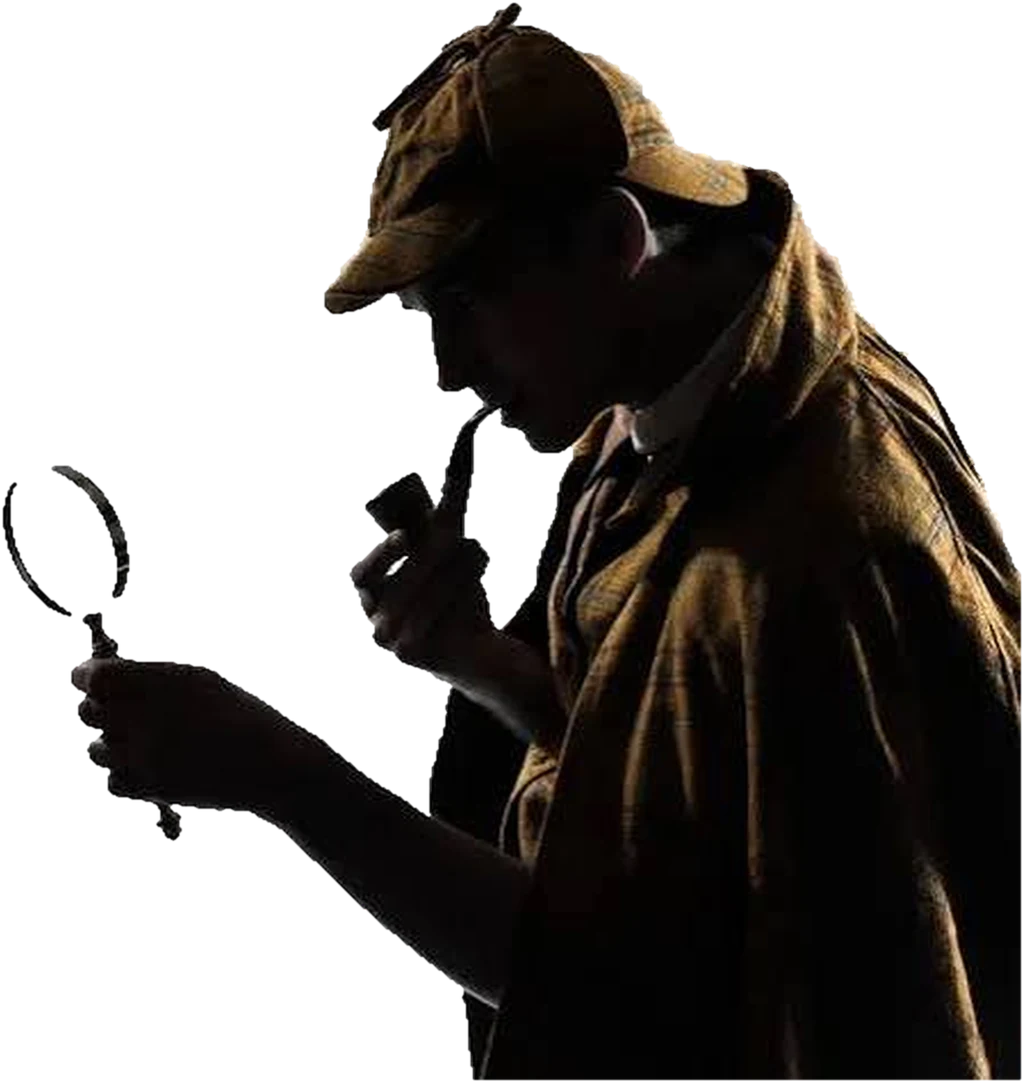
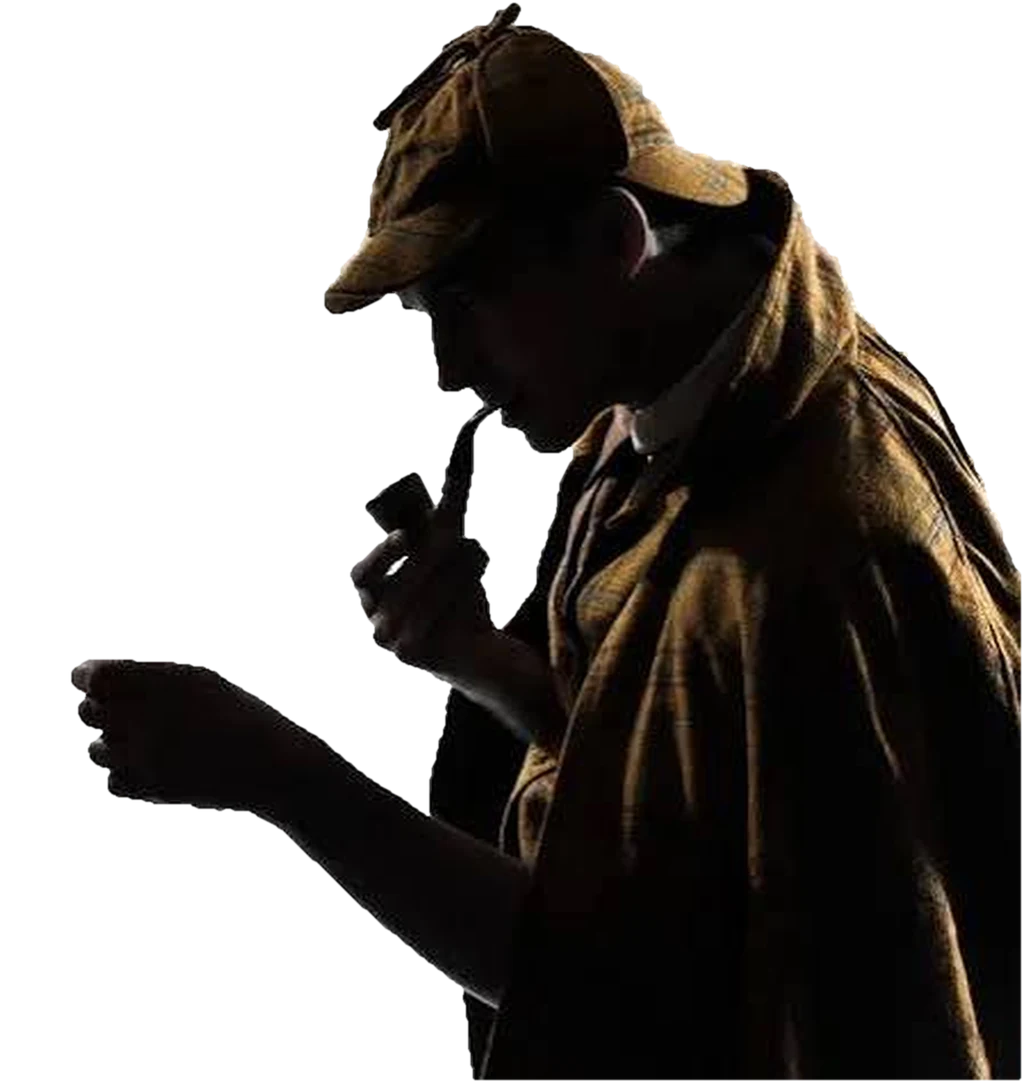
Hero: remove the magnifying glass from Sherlock's hand
Erased the lens ring and handle from the reference mask and rebuilt the traced outline,
colour texture, normal map and silhouette icon, so he simply smokes his pipe.

Claude-Session: https://claude.ai/code/session_01Bi74Xs9USDGtjcCzuCmEsb

Changed region(s): [[0.0, 0.4571, 0.125, 0.6094], [0.1562, 0.7313, 0.1875, 0.7922], [0.0312, 0.4266, 0.0938, 0.4571]]

diff --git a/components/three/sherlockPath.ts b/components/three/sherlockPath.ts
@@ -1,4 +1,4 @@
-// Traced from the reference silhouette (potrace, 1347×1425 px space). Used to extrude the 3D Sherlock.
+// Traced from the reference silhouette (potrace, 1347×1425 px space), magnifier removed. Used to extrude the 3D Sherlock.
 export const SHERLOCK_W = 1347
 export const SHERLOCK_H = 1425
-export const SHERLOCK_PATH = "M 669 7.5 C 664.8 11.1, 663.2 12, 660.1 12 C 655.7 12, 651 15.1, 651 17.9 C 651 18.9, 650.3 20.3, 649.5 21 C 648.6 21.6, 648 23.0, 648 24.0 C 648 24.9, 646.1 27.3, 643.9 29.3 C 640.2 32.8, 639.6 33, 633.0 33 C 626.7 33, 625.7 33.2, 622.6 36 C 620.7 37.6, 618.5 39, 617.7 39 C 616.9 39, 615.6 39.6, 615 40.5 C 614.3 41.3, 612.9 42, 612.0 42 C 611.1 42, 609.0 43.3, 607.5 45 C 605.9 46.6, 603.8 48, 602.9 48 C 602.0 48, 600.6 48.6, 600 49.5 C 599.3 50.3, 597.9 51, 597.0 51 C 596.1 51, 594.0 52.3, 592.5 54 C 590.9 55.6, 588.8 57, 588.0 57 C 585.1 57, 579.7 63.4, 580.5 66.0 C 581.1 67.9, 578.3 71.1, 559.8 89.6 C 548.1 101.3, 537.8 111, 536.9 111 C 535.0 111, 528 118.0, 528 120.0 C 528 122.0, 505.8 144, 503.9 144 C 501.9 144, 498 148.1, 498 150.1 C 498 150.9, 495.9 153.5, 493.5 156 C 487.7 161.6, 487.8 162.6, 494.4 168.8 C 500.6 174.7, 500.1 174.5, 504.1 172.4 C 506.4 171.2, 507.4 171.1, 508.5 172.0 C 510.4 173.6, 510.4 181.3, 508.5 183 C 507.4 183.8, 507 186.1, 507 190.5 C 507 194.8, 506.5 197.1, 505.5 198 C 504.6 198.6, 504 200.7, 504 202.5 C 504 204.2, 503.3 206.3, 502.5 207 C 501.6 207.6, 501 209.0, 501 210 C 501 210.9, 500.3 212.3, 499.5 213 C 498.6 213.6, 498 215.0, 498 216 C 498 216.9, 497.3 218.3, 496.5 219 C 495.4 219.8, 495 222.1, 495 226.5 C 495 230.8, 494.5 233.1, 493.5 234 C 492.6 234.6, 492 236.0, 492 237 C 492 237.9, 491.3 239.3, 490.5 240 C 489.4 240.8, 489 243.1, 489 247.5 C 489 251.8, 488.5 254.1, 487.5 255 C 486.2 256.0, 486 259.1, 486 271.5 C 486 283.8, 485.7 286.9, 484.5 288 C 483.4 288.8, 483 291.1, 483 295.5 C 483 299.8, 482.5 302.1, 481.5 303 C 480.6 303.6, 480 305.7, 480 307.5 C 480 309.2, 479.3 311.3, 478.5 312 C 477.6 312.6, 477 314.0, 477 314.9 C 477 315.8, 475.8 317.7, 474.4 319.0 C 472.5 320.7, 472.0 322.0, 472.4 323.9 C 472.9 326.1, 471.3 328.1, 460.0 339.4 C 447.1 352.3, 447 352.5, 447 357.0 C 447 360.7, 446.4 362.1, 444.3 364.0 C 442.9 365.4, 441.3 367.5, 440.9 368.7 C 440.4 370.0, 439.2 371.3, 438.2 371.6 C 435.5 372.6, 432 376.1, 432 377.9 C 432 378.8, 430.6 380.9, 429 382.5 C 426.0 385.2, 426 385.6, 426 394.5 L 426 403.7 431.4 408.8 C 436.8 413.9, 436.9 414, 443.5 414 C 447.1 414, 451.1 413.4, 452.3 412.7 C 453.5 412.1, 457.2 411.2, 460.5 410.9 C 466.5 410.2, 471.0 408.9, 476.3 406.3 C 477.8 405.6, 479.7 405, 480.4 405 C 481.1 405, 482.3 404.3, 483 403.5 C 483.6 402.6, 485.0 402, 486 402 C 486.9 402, 488.3 401.3, 489 400.5 C 489.6 399.6, 491.0 399, 492 399 C 492.9 399, 494.3 398.3, 495 397.5 C 495.6 396.6, 496.9 396, 497.7 396 C 498.6 396, 501.4 393.9, 504.1 391.5 C 508.5 387.3, 509.2 387, 514.3 387 C 520.2 387, 525 389.6, 525 392.9 C 525 393.9, 525.6 395.3, 526.5 396 C 527.3 396.6, 528 398.7, 528 400.5 C 528 405.6, 531.6 407.9, 539.8 408.0 C 543.7 408.0, 547.5 408.6, 549 409.5 C 550.3 410.2, 553.1 410.9, 555.2 410.9 C 558.1 410.9, 559.9 411.8, 562.9 414.6 L 567 418.2 567 433.4 C 567 445.8, 567.2 448.9, 568.5 450 C 569.5 450.9, 570 453.3, 570 459 C 570 464.6, 570.4 467.0, 571.5 468 C 572.4 468.7, 573 470.9, 573 474 C 573 477.0, 573.5 479.2, 574.5 480 C 576.3 481.5, 576.6 499.5, 574.7 503.5 C 573.6 506.0, 573.8 506.4, 578.7 511.1 L 583.8 516 593.5 516 C 600.1 516, 604.1 515.5, 606.0 514.5 C 607.6 513.6, 610.3 512.3, 611.9 511.4 C 614.6 510.0, 615.1 510.1, 619.0 512.1 C 621.2 513.3, 623.5 515.2, 623.9 516.3 C 624.4 517.5, 627.0 520.6, 629.8 523.3 C 635.4 528.8, 636.6 535.0, 632.4 537.2 C 628.9 539.0, 606 562.4, 606 564.1 C 606 565.0, 605.3 566.3, 604.5 567 C 603.6 567.6, 603 569.0, 603 570 C 603 570.9, 602.3 572.3, 601.5 573 C 600.6 573.6, 600 575.7, 600 577.5 C 600 579.2, 599.3 581.3, 598.5 582 C 597.6 582.6, 597 584.7, 597 586.5 C 597 588.2, 596.3 590.3, 595.5 591 C 594.6 591.6, 594 593.7, 594 595.5 C 594 597.2, 593.3 599.3, 592.5 600 C 591.5 600.7, 591 602.9, 591 605.9 C 591 609.8, 590.4 611.1, 588 613.5 C 585.0 616.2, 585 616.6, 585 625.5 C 585 632.5, 584.6 635.0, 583.5 636 C 582.6 636.6, 582 638.0, 582 639 C 582 639.9, 581.3 641.3, 580.5 642 C 579.6 642.6, 579 644.0, 579 645 C 579 645.9, 579.6 647.3, 580.5 648 C 581.3 648.6, 582 650.0, 582 651 C 582 651.9, 581.3 653.3, 580.5 654 C 579.6 654.6, 579 656.0, 579 657 C 579 657.9, 578.3 659.3, 577.5 660 C 576.6 660.6, 576 661.8, 576 662.5 C 576 664.8, 573.9 665.2, 571.9 663.4 C 570.8 662.4, 570 660.9, 570 659.9 C 570 659.0, 569.3 657.6, 568.5 657 C 567.6 656.3, 567 654.9, 567 654 C 567 653.0, 566.3 651.6, 565.5 651 C 564.6 650.3, 564 648.9, 564 648 C 564 647.0, 563.3 645.6, 562.5 645 C 561.6 644.3, 561 642.9, 561 642 C 561 641.0, 560.3 639.6, 559.5 639 C 558.6 638.3, 558 636.9, 558 636 C 558 635.0, 557.3 633.6, 556.5 633 C 555.6 632.3, 555 630.9, 555 629.9 C 555 627.5, 547.4 621, 544.6 621 C 543.4 621, 541.5 621.6, 540.4 622.4 C 539.3 623.2, 537.7 623.9, 536.8 623.9 C 535.9 623.9, 534.6 624.6, 534 625.5 C 533.3 626.3, 531.9 627, 531.0 627 C 530.1 627, 528.0 628.3, 526.5 630 C 524.9 631.6, 522.8 633, 521.9 633 C 521.0 633, 519.6 633.6, 519 634.5 C 518.3 635.3, 516.9 636, 516.0 636 C 515.1 636, 513.0 637.3, 511.5 639 C 509.9 640.6, 507.9 642, 507.0 642 C 506.1 642, 502.0 645.3, 498 649.5 C 493.9 653.6, 489.8 657, 488.9 657 C 488.1 657, 485.7 658.7, 483.7 660.7 C 478.1 666.4, 478.5 669.1, 486 676.5 C 489.3 679.7, 492 683.1, 492 683.9 C 492 684.8, 496.0 689.5, 501 694.5 C 505.9 699.4, 510 704.1, 510 705.0 C 510 706.9, 502.9 714, 500.9 714 C 500.1 714, 494.0 719.4, 487.5 726 C 480.9 732.6, 474.8 738, 473.9 738 C 471.9 738, 462 748.0, 462 750.1 C 462 751.0, 461.3 752.3, 460.5 753 C 459.6 753.6, 459 755.0, 459 756 C 459 756.9, 459.6 758.3, 460.5 759 C 461.3 759.6, 462 761.0, 462 762 C 462 762.9, 462.6 764.3, 463.5 765 C 464.3 765.6, 465 767.6, 465 769.4 C 465 771.6, 465.8 773.4, 468 775.5 C 470.1 777.5, 471 779.3, 471 781.5 C 471 783.3, 471.6 785.3, 472.5 786 C 473.4 786.7, 474 788.9, 474 792 C 474 795.0, 474.5 797.2, 475.5 798 C 476.3 798.6, 477 800.0, 477 801 C 477 801.9, 477.6 803.3, 478.5 804 C 479.3 804.6, 480 806.0, 480 807 C 480 807.9, 480.6 809.3, 481.5 810 C 482.3 810.6, 483 811.9, 483 812.9 C 483 813.8, 485.0 816.5, 487.5 819 C 491.5 822.9, 492 823.8, 492 828.0 C 492 831.0, 491.4 833.2, 490.5 834 C 489.6 834.6, 489 836.0, 489 837 C 489 837.9, 489.6 839.3, 490.5 840 C 491.3 840.6, 492 841.9, 492 842.9 C 492 845.0, 499.0 852, 501.1 852 C 502.0 852, 503.3 852.6, 504 853.5 C 504.6 854.3, 506 855, 506.9 855 C 507.8 855, 509.0 855.4, 509.7 856.1 C 510.3 856.7, 512.3 857.5, 514.1 857.8 C 516.1 858.3, 517.9 859.4, 518.6 860.9 C 520.1 863.9, 529.1 873, 530.6 873 C 531.2 873, 533.1 873.6, 534.6 874.3 C 537.7 875.8, 542.7 877.6, 547.5 879 C 552.2 880.3, 557.2 882.1, 560.3 883.6 C 561.8 884.3, 563.7 885, 564.3 885 C 565.0 885, 567.5 887.0, 570 889.5 C 572.4 891.9, 575.1 894.0, 575.9 894.0 C 576.8 894.0, 578.3 894.7, 579.4 895.5 C 580.5 896.3, 582.1 897, 583.1 897 C 585.6 897, 593.0 901, 593.7 902.6 C 594.0 903.4, 593.5 904.8, 592.6 905.8 C 591.7 906.8, 591 909.0, 591 910.7 C 591 912.3, 590.3 914.3, 589.5 915 C 588.5 915.7, 588 917.9, 588 921 C 588 924.1, 587.4 926.2, 586.4 927.0 C 585.2 928.0, 584.9 929.3, 585.4 931.9 C 586.1 935.9, 586.1 936.1, 585.3 947.6 C 585.0 952.9, 584.3 956.2, 583.4 957.0 C 582.5 957.7, 582 960.0, 582 962.9 C 582 966.8, 581.4 968.1, 579 970.5 C 576.2 973.0, 576 973.9, 576 979.5 C 576 983.8, 575.5 986.1, 574.5 987 C 573.4 987.8, 573 990.1, 573 994.5 C 573 998.8, 572.5 1001.1, 571.5 1002 C 570.6 1002.6, 570 1004.0, 570 1005 C 570 1005.9, 569.3 1007.3, 568.5 1008 C 567.4 1008.8, 567 1011.1, 567 1015.5 C 567 1019.8, 566.5 1022.1, 565.5 1023 C 563.5 1024.5, 563.2 1068.8, 565.1 1070.7 C 566.2 1071.8, 565.5 1074, 563.9 1074 C 563.4 1074, 561.5 1072.6, 559.6 1071 C 557.7 1069.3, 555.5 1068, 554.8 1068 C 554.0 1068, 552.0 1066.6, 550.5 1065 C 548.9 1063.3, 546.9 1062, 546.0 1062 C 545.1 1062, 542.4 1059.9, 540 1057.5 C 537.5 1055.0, 534.8 1053, 533.9 1053 C 533.0 1053, 531.0 1051.6, 529.5 1050 C 527.9 1048.3, 525.8 1047, 524.9 1047 C 524.0 1047, 522.6 1046.3, 522 1045.5 C 521.3 1044.6, 519.9 1044, 519.0 1044 C 518.1 1044, 516.0 1042.6, 514.5 1041 C 512.9 1039.3, 510.8 1038, 509.9 1038 C 509.0 1038, 507.6 1037.3, 507 1036.5 C 506.3 1035.6, 504.9 1035, 504.0 1035 C 503.1 1035, 501.0 1033.6, 499.5 1032 C 497.9 1030.3, 495.8 1029, 495 1029 C 494.1 1029, 492.0 1027.6, 490.5 1026 C 488.9 1024.3, 486.9 1023, 486.0 1023 C 485.1 1023, 482.4 1020.9, 480 1018.5 C 477.5 1016.0, 474.8 1014, 474.0 1014 C 473.1 1014, 469.7 1011.3, 466.5 1008 C 463.2 1004.7, 459.8 1002, 459 1002 C 458.1 1002, 454.7 999.3, 451.5 996 C 448.2 992.7, 444.8 990, 444.0 990 C 443.1 990, 438.4 985.9, 433.5 981 C 428.5 976.0, 423.8 972, 422.9 972 C 422.0 972, 420.0 970.6, 418.5 969 C 416.9 967.3, 414.8 966, 413.9 966 C 413.0 966, 411.6 965.3, 411 964.5 C 410.3 963.6, 408.9 963, 408.0 963 C 407.1 963, 405.0 961.6, 403.5 960 C 401.9 958.3, 399.8 957, 398.9 957 C 398.0 957, 396.6 956.3, 396 955.5 C 395.3 954.6, 393.9 954, 393.0 954 C 392.1 954, 390.0 952.6, 388.5 951 C 386.9 949.3, 384.8 948, 384 948 C 383.1 948, 381.0 946.6, 379.5 945 C 377.9 943.3, 375.9 942, 375.0 942 C 374.1 942, 371.4 939.9, 369 937.5 C 366.5 935.0, 363.8 933, 362.9 933 C 362.0 933, 360.0 931.6, 358.5 930 C 356.9 928.3, 354.8 927, 354 927 C 353.1 927, 351.0 925.6, 349.5 924 C 347.9 922.3, 345.8 921, 345 921 C 344.1 921, 342.0 919.6, 340.5 918 C 338.9 916.3, 336.8 915, 335.9 915 C 335.0 915, 333.6 914.3, 333 913.5 C 332.3 912.6, 330.9 912, 330 912 C 329.0 912, 327.6 911.3, 327 910.5 C 326.3 909.6, 324.9 909, 324.0 909 C 323.1 909, 321.0 907.6, 319.5 906 C 317.9 904.3, 315.8 903, 314.9 903 C 314.0 903, 312.6 902.3, 312 901.5 C 311.3 900.6, 309.9 900, 309 900 C 308.0 900, 306.6 899.3, 306 898.5 C 305.3 897.6, 303.9 897, 303.0 897 C 302.1 897, 300.0 895.6, 298.5 894 C 296.9 892.3, 294.9 891, 294.1 891 C 293.3 891, 290.5 888.9, 287.8 886.5 C 285.2 884.0, 282.1 882, 280.9 882 C 279.7 882, 277.3 881.2, 275.6 880.3 C 273.9 879.4, 271.3 878.0, 269.8 877.3 C 268.3 876.6, 264.3 875.9, 260.8 875.9 C 257.2 875.9, 253.4 875.3, 252 874.5 C 250.4 873.6, 246.4 873.0, 241.5 873 C 236.5 872.9, 232.5 872.3, 231 871.5 C 229.0 870.3, 223.3 870.0, 204 870 C 184.6 869.9, 178.9 869.6, 177 868.5 C 175.6 867.7, 172.2 867.0, 169.4 867.0 C 166.5 867.0, 163.5 866.3, 162.4 865.5 C 161.3 864.7, 159.7 864.0, 158.9 864.0 C 155.8 863.9, 153.5 860.2, 154.8 857.4 C 157.1 852.2, 156.3 847.7, 152.2 843.7 C 150.1 841.6, 147.7 840, 146.9 840 C 144.9 840, 138 832.8, 138 830.8 C 138 829.9, 137.3 828.6, 136.5 828 C 135.3 827.0, 135 824.5, 135 817.5 C 135 806.7, 133.2 803.6, 128.4 805.8 C 127.0 806.4, 123.6 807, 120.9 807 C 116.6 807, 115.4 807.4, 112.0 810.6 C 109.8 812.6, 108 815.0, 108 815.9 C 108 817.8, 111.4 821.3, 114.2 822.3 C 115.2 822.6, 116.3 823.7, 116.6 824.7 C 117.0 825.7, 117.8 827.1, 118.5 828.0 C 119.4 828.9, 120.0 833.9, 120.3 842.0 C 120.6 848.8, 120.9 855.4, 121.0 856.5 C 121.3 860.5, 119.4 865.4, 117.1 866.6 C 115.8 867.2, 114.3 868.2, 113.7 868.8 C 113.1 869.4, 111.8 870, 110.9 870 C 110.1 870, 108.0 871.3, 106.5 873 C 104.9 874.6, 102.9 876, 102.0 876 C 101.1 876, 98.7 877.7, 96.7 879.7 C 93.0 883.4, 93 883.7, 93 891.0 L 93 898.5 98.2 903.7 C 101.1 906.6, 104.0 909, 104.7 909 C 105.8 909, 113 912.8, 113 913.4 C 113 915.4, 109.2 921.3, 106.0 924.4 C 102.1 928.2, 102 928.6, 102 934.5 C 102 938.8, 102.4 941.1, 103.5 942 C 104.3 942.6, 105 944.0, 105 944.9 C 105 947.3, 115.4 957, 118.0 957 C 119.1 957, 121.1 957.5, 122.3 958.2 C 123.5 958.8, 126.4 959.6, 128.8 959.9 C 136.1 960.8, 136.4 962.9, 130.0 969.4 C 127.0 972.5, 123.8 975, 122.9 975 C 120.9 975, 117 979.1, 117 981.1 C 117 982.0, 116.3 983.3, 115.5 984 C 113.5 985.5, 113.5 988.4, 115.5 990 C 116.3 990.6, 117 992.6, 117 994.4 C 117 997.7, 125.9 1007.9, 129.0 1008.0 C 129.8 1008.0, 131.3 1008.7, 132.4 1009.5 C 133.5 1010.3, 136.0 1011, 137.9 1011 C 139.9 1011, 142.1 1011.5, 142.8 1012.2 C 144.4 1013.8, 144.2 1018.5, 142.5 1020 C 141.3 1020.9, 141 1023.4, 141 1030.4 L 141 1039.5 144.7 1043.2 C 146.8 1045.3, 149.2 1047.0, 150.0 1047.0 C 150.8 1047.0, 152.3 1047.7, 153.4 1048.5 C 154.6 1049.4, 157.7 1050.0, 161.9 1050.0 C 165.7 1050.0, 169.5 1050.6, 171 1051.5 C 172.4 1052.3, 176.3 1052.9, 180 1053 C 183.6 1053.0, 187.5 1053.6, 189 1054.5 C 190.3 1055.2, 192.9 1055.9, 194.7 1055.9 C 199.0 1056.0, 205.9 1059.7, 207.0 1062.5 C 207.4 1063.7, 208.3 1065.1, 208.9 1065.4 C 209.5 1065.8, 210 1068.8, 210 1072.2 C 210 1077.5, 209.6 1078.7, 207.2 1081.2 C 204.1 1084.4, 204.7 1086.5, 209.3 1088.8 C 210.8 1089.5, 212.5 1091.2, 212.9 1092.4 C 213.4 1093.7, 214.3 1095.1, 214.9 1095.4 C 215.5 1095.8, 216 1096.9, 216 1097.8 C 216 1099.9, 219.9 1103.9, 222.0 1104.0 C 222.8 1104.0, 224.3 1104.7, 225.4 1105.5 C 226.5 1106.3, 227.7 1107, 228.1 1107 C 229.8 1107, 237 1099.6, 237 1098.0 C 237 1097.0, 237.6 1095.6, 238.5 1095 C 240.4 1093.4, 240.4 1090.5, 238.5 1089 C 236.7 1087.5, 236.5 1081.1, 238.1 1077.5 C 239.2 1075.2, 239.0 1074.6, 235.9 1071.4 C 234.1 1069.5, 231.8 1068, 230.9 1068 C 228.1 1068, 224.3 1063.1, 225.6 1061.2 C 227.0 1058.9, 233.1 1058.5, 236.8 1060.4 C 238.8 1061.4, 242.6 1062.0, 247.7 1062.0 C 252.5 1062.0, 256.4 1062.6, 258 1063.5 C 259.7 1064.4, 263.8 1064.9, 271.2 1064.9 C 279.1 1064.9, 282.8 1065.4, 285.5 1066.7 C 288.6 1068.1, 289.5 1068.2, 292.2 1067.0 C 297.4 1064.9, 302.4 1064.6, 305.8 1066.4 C 307.9 1067.5, 311.6 1068, 318.2 1068 C 324.9 1068, 328.1 1068.4, 329.5 1069.4 C 330.6 1070.2, 332.2 1070.9, 333.0 1070.9 C 333.9 1070.9, 335.9 1072.3, 337.5 1074 C 339.0 1075.6, 341.1 1077, 342.0 1077 C 342.9 1077, 344.3 1077.6, 345 1078.5 C 345.6 1079.3, 347.0 1080, 348 1080 C 348.9 1080, 350.3 1080.6, 351 1081.5 C 351.6 1082.3, 353.0 1083, 354 1083 C 354.9 1083, 356.3 1083.6, 357 1084.5 C 357.6 1085.3, 359.0 1086, 359.9 1086 C 360.8 1086, 362.9 1087.3, 364.5 1089 C 366.0 1090.6, 368.0 1092, 368.9 1092 C 369.8 1092, 379.9 1101.4, 391.5 1113 C 403.0 1124.5, 413.1 1134, 413.9 1134 C 414.8 1134, 429.6 1148.1, 447 1165.5 C 464.3 1182.8, 479.1 1197, 480.0 1197 C 480.8 1197, 487.5 1203.0, 495 1210.5 C 502.4 1217.9, 509.1 1224, 510.0 1224 C 510.9 1224, 512.9 1225.3, 514.5 1227 C 516.0 1228.6, 518.0 1230, 518.9 1230 C 519.8 1230, 523.9 1233.3, 528 1237.5 C 532.0 1241.6, 536.1 1245, 537 1245 C 537.8 1245, 541.9 1248.3, 546 1252.5 C 550.0 1256.6, 554.1 1260, 555.0 1260 C 555.8 1260, 558.5 1262.0, 561 1264.5 C 563.4 1266.9, 566.1 1269, 567 1269 C 567.8 1269, 570.5 1271.0, 573 1273.5 C 575.4 1275.9, 578.1 1278, 578.9 1278 C 579.8 1278, 583.2 1280.7, 586.5 1284 C 589.7 1287.3, 593.1 1290, 594.0 1290 C 594.9 1290, 596.9 1291.3, 598.5 1293 C 600.0 1294.6, 602.1 1296, 603.0 1296 C 607.6 1296, 610.5 1304.4, 607.9 1310.2 C 606.8 1312.6, 608.7 1319.1, 610.9 1320.4 C 611.5 1320.8, 612 1325.2, 612 1330.4 C 612 1337.5, 612.3 1340.0, 613.5 1341 C 614.7 1342.0, 615 1345.6, 615 1362 C 615 1378.3, 615.2 1381.9, 616.5 1383 C 617.6 1383.9, 618 1386.4, 618 1393.5 C 618 1400.5, 618.3 1403.0, 619.5 1404 C 620.5 1404.8, 621 1407.2, 621 1412.4 C 621 1416.6, 621.4 1420.0, 622.2 1420.8 C 623.9 1422.5, 1341.0 1422.5, 1342.8 1420.8 C 1343.7 1419.8, 1344 1344.4, 1344 1087.2 L 1344 754.9 1339.5 750.1 C 1337.0 747.4, 1335 744.6, 1335 743.7 C 1335 742.9, 1334.3 741.6, 1333.5 741 C 1332.6 740.3, 1332 738.2, 1332 736.5 C 1332 734.7, 1331.3 732.6, 1330.5 732 C 1329.6 731.3, 1329 729.9, 1329 729 C 1329 728.0, 1328.3 726.6, 1327.5 726 C 1326.6 725.3, 1326 723.9, 1326 723 C 1326 722.0, 1325.3 720.6, 1324.5 720 C 1323.6 719.3, 1323 717.9, 1323 717 C 1323 716.0, 1322.3 714.6, 1321.5 714 C 1320.4 713.0, 1320 710.6, 1320 705 C 1320 699.3, 1319.5 696.9, 1318.5 696 C 1317.6 695.3, 1317 693.3, 1317 691.6 C 1317 689.7, 1316.0 687.6, 1314.2 685.7 C 1311.9 683.3, 1311.7 682.6, 1312.7 680.9 C 1315.2 677.0, 1312.2 672.1, 1308.1 673.4 C 1305.4 674.3, 1302 668.2, 1302 662.5 C 1302 659.9, 1301.4 657.7, 1300.5 657 C 1299.5 656.2, 1299 654.0, 1299 651 C 1299 647.9, 1298.4 645.7, 1297.5 645 C 1296.5 644.2, 1296 642.0, 1296 639 C 1296 635.9, 1295.4 633.7, 1294.5 633 C 1293.6 632.3, 1293 631.0, 1293 630.0 C 1293 629.1, 1291.1 626.6, 1288.9 624.4 C 1284.4 620.1, 1281.6 614.6, 1282.5 612 C 1283.3 609.3, 1280.5 603.8, 1276.0 599.5 C 1273.8 597.3, 1272 594.8, 1272 593.9 C 1272 592.9, 1271.3 591.6, 1270.5 591 C 1269.6 590.3, 1269 588.9, 1269 588 C 1269 587.0, 1268.3 585.6, 1267.5 585 C 1266.6 584.3, 1266 582.9, 1266 582 C 1266 581.0, 1265.3 579.6, 1264.5 579 C 1263.6 578.3, 1263 576.9, 1263 576 C 1263 575.0, 1262.3 573.6, 1261.5 573 C 1260.6 572.3, 1260 570.9, 1260 570 C 1260 569.0, 1259.3 567.6, 1258.5 567 C 1257.6 566.3, 1257 564.3, 1257 562.5 C 1257 560.3, 1256.1 558.5, 1254 556.5 C 1252.3 554.9, 1251 552.8, 1251 551.9 C 1251 551.0, 1250.3 549.6, 1249.5 549 C 1248.6 548.3, 1248 546.9, 1248 546 C 1248 545.0, 1247.3 543.6, 1246.5 543 C 1245.6 542.3, 1245 540.9, 1245 540.0 C 1245 539.1, 1243.6 537.0, 1242 535.5 C 1240.3 533.9, 1239 531.8, 1239 530.9 C 1239 530.0, 1238.3 528.6, 1237.5 528 C 1236.6 527.3, 1236 525.9, 1236 525 C 1236 524.0, 1235.3 522.6, 1234.5 522 C 1233.6 521.3, 1233 519.9, 1233 519 C 1233 518.0, 1232.3 516.6, 1231.5 516 C 1230.6 515.3, 1230 514.0, 1230 513.0 C 1230 512.1, 1227.9 509.4, 1225.5 507 C 1223.0 504.5, 1221 501.8, 1221 501.0 C 1221 500.1, 1214.9 493.4, 1207.5 486 C 1193.6 472.1, 1193.1 471.4, 1195.2 467.9 C 1197.2 464.6, 1193.2 462, 1186.3 462 C 1181.3 462, 1180.5 461.6, 1176.2 457.6 C 1173.6 455.2, 1170.7 453.0, 1169.7 452.6 C 1168.7 452.3, 1167.5 451.0, 1167.0 449.7 C 1166.5 448.5, 1162.9 444.3, 1159.0 440.5 C 1153.3 434.8, 1152 432.9, 1152 430.4 C 1152 426.4, 1149 423.5, 1145.9 424.5 C 1143.4 425.2, 1137 419.8, 1137 416.9 C 1137 415.1, 1134.2 412.2, 1130.7 410.5 C 1129.2 409.8, 1128.3 408.3, 1128.1 406.3 C 1128.0 404.5, 1127.2 402.6, 1126.4 401.9 C 1125.6 401.2, 1125 399.2, 1125 397.5 C 1125 395.7, 1124.3 393.6, 1123.5 393 C 1122.6 392.3, 1122 390.3, 1122 388.5 C 1122 386.3, 1121.1 384.5, 1119 382.5 C 1116.5 380.1, 1116 378.8, 1116 375.1 C 1116 371.2, 1115.4 370.0, 1112.2 366.7 C 1109.7 364.1, 1108.4 361.8, 1108.2 359.6 C 1107.9 353.6, 1106.7 349.0, 1105.3 347.9 C 1104.6 347.2, 1104 345.2, 1104 343.4 C 1104 339.7, 1100.2 336, 1096.5 336 C 1093.6 336, 1089 332.3, 1089 330.1 C 1089 328.0, 1084.9 324, 1082.9 324 C 1080.9 324, 1071 313.8, 1071 311.8 C 1071 310.9, 1070.3 309.6, 1069.5 309 C 1068.6 308.3, 1068 306.3, 1068 304.5 C 1068 301.2, 1065.9 298.6, 1061.7 296.5 C 1060.3 295.8, 1059.3 294.3, 1059.1 292.4 C 1058.9 290.8, 1058.2 288.8, 1057.5 288 C 1056.3 286.6, 1055.3 281.4, 1054.7 273.4 C 1054.4 269.7, 1052.4 267, 1050.0 267 C 1047.3 267, 1044 262.7, 1044 259.3 C 1044 257.6, 1043.3 255.6, 1042.5 255 C 1041.6 254.3, 1041 252.9, 1041 252 C 1041 251.0, 1040.3 249.6, 1039.5 249 C 1038.6 248.3, 1038 246.3, 1038 244.5 C 1038 240.5, 1022.8 225.0, 1018.8 224.9 C 1017.5 224.9, 1015.3 224.2, 1014 223.5 C 1012.3 222.5, 1008.3 222.0, 1002.2 222.0 C 996.8 222.0, 991.7 221.4, 989.7 220.6 C 985.6 218.8, 980.3 217.0, 976.5 216 C 972.6 214.9, 967.3 213.1, 963.2 211.3 C 961.2 210.5, 956.2 210, 950.5 210 C 941.4 210, 940.9 209.8, 937.6 207 C 935.7 205.3, 933.6 203.9, 932.8 203.9 C 932.1 203.9, 930.6 203.2, 929.5 202.4 C 928.2 201.4, 925.0 201, 919.5 201 C 913.9 201, 910.7 200.5, 909.4 199.5 C 908.3 198.7, 906.8 198.0, 906.1 198.0 C 905.3 198.0, 903.2 196.6, 901.3 195 C 899.4 193.3, 896.8 192, 895.6 192 C 891.7 192, 888 188.3, 888 184.5 C 888 182.7, 887.3 180.6, 886.5 180 C 885.6 179.3, 885 177.9, 885 177 C 885 176.0, 884.3 174.6, 883.5 174 C 882.6 173.3, 882 171.3, 882 169.5 C 882 167.3, 881.1 165.5, 879 163.5 C 877.3 161.9, 876 159.8, 876 158.9 C 876 158.0, 874.8 156.2, 873.4 154.9 C 871.5 153.1, 871.0 151.9, 871.4 150.0 C 871.9 147.9, 871.2 146.6, 868.0 143.5 C 865.8 141.3, 864 138.8, 864 137.9 C 864 135.9, 859.9 132, 857.8 132 C 856.9 132, 855.6 131.3, 855 130.5 C 854.3 129.6, 852.9 129, 852.0 129 C 848.4 129, 846 124.7, 846 118.4 L 846 112.4 839.2 105.7 C 835.4 102.0, 831.7 98.9, 830.9 98.9 C 830.1 98.9, 828.6 98.2, 827.5 97.4 C 826.4 96.6, 824.6 96, 823.4 96 C 820.5 96, 816 92.3, 816 90 C 816 87.6, 811.4 84, 808.5 84 C 807.3 84, 805.5 83.3, 804.4 82.5 C 803.3 81.7, 801.8 81.0, 801.1 81.0 C 800.3 81.0, 797.5 78.9, 794.8 76.5 C 790.9 72.8, 789.3 71.9, 786.2 71.9 C 784.2 71.9, 781.3 71.2, 780 70.5 C 778.6 69.7, 775.2 69.0, 772.5 69 C 769.7 68.9, 766.3 68.2, 765 67.5 C 763.6 66.7, 761.5 66.0, 760.2 66.0 C 759.0 66.0, 756.5 64.6, 754.6 63 C 752.7 61.3, 750.5 60, 749.8 60 C 749.0 60, 747.0 58.6, 745.5 57 C 743.9 55.3, 741.8 54, 741 54 C 740.1 54, 738.0 52.6, 736.5 51 C 734.9 49.3, 732.8 48, 732 48 C 731.1 48, 729.0 46.6, 727.5 45 C 725.9 43.3, 723.9 42, 723.0 42 C 722.1 42, 720.9 41.5, 720.3 40.9 C 719.7 40.3, 717.7 39.4, 715.8 39.0 C 711.9 38.0, 706.8 36.3, 702.2 34.3 C 700.1 33.4, 694.9 33, 688.0 33 C 675.8 33, 674.4 32.2, 678.3 28.1 C 679.8 26.6, 681 24.6, 681 23.8 C 681 22.9, 681.6 21.6, 682.5 21 C 683.3 20.3, 684 18.9, 684 18 C 684 17.0, 684.6 15.6, 685.5 15 C 687.9 12.9, 687.2 10.4, 682.9 6.6 C 677.6 1.8, 675.2 1.9, 669 7.5 M 649.6 543 C 647.7 544.6, 645.6 546, 644.8 546 C 642.9 546, 630 559.1, 630 561.1 C 630 562.0, 629.3 563.3, 628.5 564 C 627.6 564.6, 627 566.0, 627 567 C 627 567.9, 626.3 569.3, 625.5 570 C 624.2 571.0, 624 575.3, 624 597 C 624 618.6, 623.7 622.9, 622.5 624 C 621.4 624.9, 621 627.3, 621 633 C 621 638.6, 620.5 641.0, 619.5 642 C 618.4 642.8, 618 645.1, 618 649.5 C 618 653.8, 617.5 656.1, 616.5 657 C 615.4 657.9, 615 660.3, 615 666 C 615 671.6, 614.5 674.0, 613.5 675 C 611.5 676.6, 611.2 704.8, 613.2 706.8 C 613.8 707.4, 616.7 708, 619.6 708 C 624.3 708, 625.4 708.4, 628.9 711.6 C 631.1 713.6, 633 715.9, 633 716.9 C 633 717.8, 635.0 720.5, 637.5 723 C 639.9 725.4, 642 728.1, 642 729.0 C 642 730.0, 642.6 731.3, 643.5 732 C 644.3 732.6, 645 734.7, 645 736.5 C 645 738.2, 644.3 740.3, 643.5 741 C 642.6 741.6, 642 743.0, 642 744 C 642 744.9, 641.3 746.3, 640.5 747 C 639.6 747.6, 639 749.6, 639 751.4 C 639 753.6, 638.1 755.4, 636 757.5 C 632.6 760.7, 631.9 765.8, 634.5 768 C 635.3 768.6, 636 770.0, 636 771.0 C 636 772.0, 636.4 773.1, 637.0 773.5 C 638.6 774.5, 641.0 781.1, 640.4 783.0 C 639.9 784.8, 641.5 789.4, 643.6 792 C 644.2 792.8, 645.0 797.1, 645.3 801.5 C 645.7 805.9, 646.0 810.9, 646.2 812.6 C 646.3 814.4, 647.5 816.9, 648.7 818.2 C 649.9 819.5, 651 821.3, 651 822.2 C 651 823.8, 655.4 828, 657.2 828 C 658.9 828, 678 808.7, 678 807 C 678 806.1, 679.3 804.0, 681 802.5 C 682.6 800.9, 684 798.8, 684 798 C 684 797.1, 685.3 795.0, 687 793.5 C 688.6 791.9, 690 790.0, 690 789.3 C 690 788.6, 691.3 787.1, 693 786 C 694.6 784.8, 696 783.3, 696 782.6 C 696 781.9, 697.3 780.0, 699 778.5 C 700.6 776.9, 702 774.8, 702 773.9 C 702 773.0, 702.6 771.6, 703.5 771 C 704.6 770.0, 705 767.1, 705 757.5 C 705 747.8, 705.3 744.9, 706.5 744 C 707.3 743.3, 708 741.2, 708 739.5 C 708 737.7, 708.6 735.6, 709.5 735 C 710.4 734.2, 711 732.0, 711 729.0 C 711 725.1, 711.5 723.8, 714 721.5 C 716.1 719.4, 717 717.6, 717 715.4 C 717 713.6, 717.6 711.6, 718.5 711 C 719.5 710.1, 720 707.8, 720 703.5 C 720 699.1, 720.4 696.8, 721.5 696 C 722.3 695.3, 723 693.9, 723 693 C 723 692.0, 723.6 690.6, 724.5 690 C 725.3 689.3, 726 687.9, 726 687 C 726 686.0, 726.6 684.7, 727.3 684.0 C 729.3 682.4, 730.8 673.6, 731.6 658.8 C 731.9 652.1, 732.5 648.7, 733.5 647.9 C 734.5 647.1, 735 644.7, 735 640.5 C 735 636.1, 735.4 633.8, 736.5 633 C 737.3 632.3, 738 630.9, 738 630 C 738 629.0, 738.6 627.6, 739.5 627 C 740.3 626.3, 741 624.9, 741 624 C 741 623.0, 741.6 621.6, 742.5 621 C 743.3 620.3, 744 618.9, 744 618 C 744 617.0, 744.6 615.6, 745.5 615 C 746.3 614.3, 747 612.9, 747 612.0 C 747 611.1, 748.3 609.0, 750 607.5 C 752.7 604.8, 753 604.1, 753 597.4 C 753 587.4, 750.2 585.6, 744.5 591.9 C 743.5 593.0, 741.9 594.0, 741.0 594.0 C 740.2 594.0, 738.6 594.7, 737.5 595.5 C 736.0 596.6, 732.5 597, 723 597 C 713.4 597, 709.9 596.6, 708.4 595.5 C 707.3 594.7, 705.8 594.0, 704.9 594.0 C 702.9 593.9, 696 586.8, 696 584.8 C 696 584.0, 694.6 582.0, 693 580.5 C 690.9 578.5, 690 576.6, 690 574.4 C 690 571.2, 686.6 567.0, 683.9 566.9 C 683.1 566.9, 681.6 566.2, 680.5 565.4 C 679.4 564.6, 676.4 564, 673.5 564 C 670.5 564, 667.5 563.3, 666.4 562.5 C 665.3 561.7, 663.7 561.0, 662.9 561.0 C 659.6 560.9, 658.1 557.7, 658.5 551.8 C 658.7 547.6, 658.3 545.4, 656.9 543.1 C 654.5 539.2, 653.9 539.2, 649.6 543 M 69.2 613.5 C 68 614.4, 67 615.6, 67 616.4 C 67 618.1, 70.2 621, 72.2 621 C 73.0 621, 74.3 621.6, 75 622.5 C 75.6 623.3, 77.0 624, 78 624 C 78.9 624, 80.3 624.6, 81 625.5 C 81.6 626.3, 83.0 627, 83.9 627 C 84.8 627, 86.9 628.3, 88.5 630 C 90.0 631.6, 92.0 633, 92.9 633 C 93.8 633, 96.5 635.0, 99 637.5 C 101.4 639.9, 104.1 642, 104.9 642 C 106.9 642, 117 652.0, 117 654.0 C 117 654.9, 119.0 657.5, 121.5 660 C 123.9 662.4, 126 665.1, 126 666.0 C 126 667.0, 126.6 668.3, 127.5 669 C 128.3 669.6, 129 671.0, 129 671.9 C 129 672.8, 130.3 674.9, 132 676.5 C 133.6 678.0, 135 680.1, 135 681.0 C 135 681.9, 135.6 683.3, 136.5 684 C 137.3 684.6, 138 686.7, 138 688.5 C 138 690.2, 138.6 692.3, 139.5 693 C 140.3 693.6, 141 695.0, 141 696 C 141 696.9, 141.6 698.3, 142.5 699 C 143.3 699.6, 144 701.7, 144 703.5 C 144 705.2, 144.6 707.3, 145.5 708 C 146.4 708.7, 147 710.9, 147 714 C 147 717.0, 147.5 719.2, 148.5 720 C 149.4 720.7, 150 722.9, 150 726 C 150 729.0, 150.5 731.2, 151.5 732 C 152.7 733.0, 153 736.3, 153 750 C 153 763.6, 152.7 766.9, 151.5 768 C 150.6 768.6, 150 770.7, 150 772.5 C 150 774.2, 149.3 776.3, 148.5 777 C 146.3 778.7, 146.6 784.3, 148.9 786.4 C 150.7 788.0, 151.3 788.1, 154.2 786.9 C 158.4 785.2, 162 782.1, 162 779.9 C 162 779.0, 162.6 777.6, 163.5 777 C 164.3 776.3, 165 774.2, 165 772.5 C 165 770.7, 165.6 768.6, 166.5 768 C 167.5 767.1, 168 764.8, 168 760.5 C 168 756.1, 168.4 753.8, 169.5 753 C 170.6 752.0, 171 749.3, 171 741 C 171 732.6, 170.6 729.9, 169.5 729 C 168.4 728.0, 168 725.6, 168 720 C 168 714.3, 167.5 711.9, 166.5 711 C 165.5 710.2, 165 708.0, 165 705 C 165 701.9, 164.4 699.7, 163.5 699 C 162.6 698.3, 162 696.9, 162 696 C 162 695.0, 161.3 693.6, 160.5 693 C 159.6 692.3, 159 690.2, 159 688.5 C 159 686.7, 158.3 684.6, 157.5 684 C 156.6 683.3, 156 681.9, 156 681 C 156 680.0, 155.3 678.6, 154.5 678 C 153.6 677.3, 153 675.9, 153 675 C 153 674.0, 152.3 672.6, 151.5 672 C 150.6 671.3, 150 669.9, 150 669.0 C 150 668.1, 148.6 666.0, 147 664.5 C 145.3 662.9, 144 660.8, 144 660 C 144 659.1, 142.6 657.0, 141 655.5 C 139.3 653.9, 138 651.9, 138 651.0 C 138 649.0, 115.9 627, 113.9 627 C 113.0 627, 111.0 625.6, 109.5 624 C 107.9 622.3, 105.8 621, 104.9 621 C 104.0 621, 102.6 620.3, 102 619.5 C 101.3 618.6, 100.0 618, 99.2 618 C 98.4 618, 96.2 616.6, 94.3 615 C 91.0 612.1, 90.5 612, 81.1 612 C 73.9 612, 70.8 612.4, 69.2 613.5 M 15.2 637.2 C 13.4 639.0, 12 641.3, 12 642.1 C 12 643.0, 11.3 644.3, 10.5 645 C 9.6 645.6, 9 647.7, 9 649.5 C 9 651.2, 8.3 653.3, 7.5 654 C 6.5 654.7, 5.9 657.0, 5.9 659.8 C 5.9 662.4, 5.2 665.3, 4.4 666.4 C 2.3 669.2, 2.3 692.7, 4.4 695.5 C 5.3 696.7, 5.9 699.8, 5.9 703.6 C 5.9 707.8, 6.4 710.1, 7.5 711 C 8.4 711.7, 9 713.9, 9 717 C 9 720.0, 9.5 722.2, 10.5 723 C 11.3 723.6, 12 725.0, 12 726 C 12 726.9, 12.6 728.3, 13.5 729 C 14.3 729.6, 15 731.7, 15 733.5 C 15 735.2, 15.6 737.3, 16.5 738 C 17.3 738.6, 18 740.0, 18 741 C 18 741.9, 18.6 743.3, 19.5 744 C 20.3 744.6, 21 746.0, 21 747 C 21 747.9, 21.6 749.3, 22.5 750 C 23.3 750.6, 24 752.0, 24 753 C 24 753.9, 24.6 755.3, 25.5 756 C 26.3 756.6, 27 757.9, 27 758.9 C 27 759.8, 29.0 762.5, 31.5 765 C 33.9 767.4, 36 770.1, 36 770.9 C 36 773.0, 64.0 801, 66.1 801 C 67.0 801, 68.3 801.6, 69 802.5 C 69.6 803.3, 71.0 804, 72 804 C 72.9 804, 74.3 804.6, 75 805.5 C 75.6 806.3, 76.8 807, 77.5 807 C 78.2 807, 80.1 807.6, 81.6 808.4 C 89.7 812.3, 95 812.4, 95 808.5 C 95 806.8, 91.7 804, 89.8 804 C 89.0 804, 87.0 802.6, 85.5 801 C 83.9 799.3, 81.9 798, 81.0 798 C 80.1 798, 77.4 795.9, 75 793.5 C 72.5 791.0, 69.8 789, 69.0 789 C 67.0 789, 51 772.9, 51 770.9 C 51 770.1, 48.9 767.4, 46.5 765 C 44.0 762.5, 42 759.8, 42 758.9 C 42 758.0, 40.6 756.0, 39 754.5 C 37.3 752.9, 36 750.8, 36 749.9 C 36 749.0, 35.3 747.6, 34.5 747 C 33.6 746.3, 33 744.9, 33 744 C 33 743.0, 32.3 741.6, 31.5 741 C 30.6 740.3, 30 738.9, 30 738 C 30 737.0, 29.3 735.6, 28.5 735 C 27.6 734.3, 27 732.2, 27 730.5 C 27 728.7, 26.3 726.6, 25.5 726 C 24.6 725.3, 24 723.9, 24 723 C 24 722.0, 23.3 720.6, 22.5 720 C 21.5 719.2, 21 717.0, 21 714 C 21 710.9, 20.4 708.7, 19.5 708 C 18.4 707.1, 18 704.8, 18 700.5 C 18 696.1, 17.5 693.8, 16.5 693 C 14.2 691.1, 14.2 652.8, 16.5 651 C 17.3 650.3, 18 648.3, 18 646.6 C 18 644.7, 18.9 642.6, 20.7 640.7 C 22.8 638.4, 23.2 637.5, 22.3 636.2 C 20.6 633.4, 18.6 633.7, 15.2 637.2"
+export const SHERLOCK_PATH = "M 669 7.5 C 665.0 11.0, 663.1 12, 660.4 12 C 655.0 12, 653.3 13.4, 649.5 20.9 C 644.5 30.8, 641.5 33, 633 33 C 627.2 33, 625.6 33.3, 623.3 35.3 C 621.7 36.6, 617.7 39.1, 614.3 40.8 C 610.9 42.5, 607.8 44.4, 607.4 45.0 C 607.1 45.5, 603.8 47.6, 600.1 49.5 C 586.4 56.8, 581 61.3, 581 65.6 C 581 67.9, 577.3 72.0, 559.7 89.4 C 548.0 101.0, 536.9 111.4, 534.9 112.5 C 533.0 113.6, 530.6 116.0, 529.5 117.9 C 526.4 123.1, 507.9 141.9, 503.7 144.0 C 501.7 145.1, 499.2 147.4, 498.3 149.2 C 497.4 151.0, 495.2 154.1, 493.3 156.2 C 488.9 161.2, 489.1 163.3, 494.4 168.7 C 498.8 173.1, 499.0 173.2, 503.6 172.5 C 509.8 171.6, 512.2 176.1, 508.7 182.3 C 508.1 183.5, 507.2 187.2, 506.9 190.5 C 506.1 197.6, 505.1 200.5, 499.3 212.7 C 496.2 219.4, 495 223.2, 495 226.5 C 495 229.5, 494.0 233.0, 492 237 C 489.9 241.0, 488.9 244.4, 488.9 247.7 C 488.9 250.3, 488.2 253.6, 487.5 255 C 486.4 256.8, 486.0 261.2, 486.0 271.3 C 486.0 280.2, 485.5 285.9, 484.7 287.3 C 484.1 288.5, 483.2 292.2, 482.9 295.5 C 482.1 302.5, 481.0 306.0, 476.3 315.5 C 474.4 319.3, 472.9 323.3, 472.9 324.3 C 472.9 325.4, 467.5 331.8, 460 339.5 C 447.5 352.1, 447 352.9, 447 356.8 C 447 359.8, 446.2 361.7, 444.1 364.2 C 442.6 366.0, 441.0 368.2, 440.6 369.2 C 440.3 370.2, 438.8 371.4, 437.4 372.0 C 436.0 372.5, 434.1 374.3, 433.2 376.0 C 432.2 377.7, 430.2 380.7, 428.7 382.7 C 426.2 385.9, 426 387.0, 426 394.7 L 426 403.3 431.3 408.6 L 436.6 414 443.4 414 C 447.1 414, 451.1 413.4, 452.3 412.7 C 453.5 412.1, 457.2 411.2, 460.5 410.9 C 467.9 410.1, 470.2 409.2, 487 401.2 C 494.9 397.4, 502.2 393.1, 504.7 390.8 C 509.2 386.7, 516.3 385.5, 521.0 388.0 C 523.3 389.2, 528 397.9, 528 401.0 C 528 405.4, 532.2 407.9, 539.7 408.0 C 543.7 408.0, 547.5 408.6, 549 409.5 C 550.3 410.2, 553.2 410.9, 555.3 410.9 C 558.5 410.9, 559.9 411.7, 563.1 414.8 L 567 418.7 567.0 433.1 C 567.0 443.7, 567.4 448.1, 568.5 450 C 569.3 451.4, 569.9 455.3, 570 459 C 570.0 462.6, 570.6 466.5, 571.5 468 C 572.2 469.3, 572.9 471.9, 572.9 473.8 C 572.9 475.6, 573.7 478.5, 574.6 480.2 C 575.9 482.8, 576.1 485.5, 575.7 495.4 L 575.2 507.5 579.4 511.7 L 583.7 516 593.4 516 C 600.5 516, 604.0 515.5, 606.3 514.3 C 612.2 511.2, 612.9 511, 614.8 511 C 617.5 511, 623.0 513.9, 623.7 515.8 C 624.0 516.7, 626.7 520.0, 629.6 523.1 C 635.3 529.2, 636.6 533.6, 633.3 536.2 C 632.4 536.9, 626.2 542.7, 619.5 549.2 C 606.0 562.2, 601.6 569.6, 597 586.5 C 595.9 590.3, 594.1 595.6, 592.3 599.7 C 591.6 601.5, 591 604.5, 591 606.3 C 591 608.5, 589.9 611.0, 588 613.5 C 585.2 616.9, 585 617.9, 585 625.1 C 585 631.4, 584.5 634.0, 582.5 638.1 C 579.7 643.9, 579.4 646.1, 581.1 648.8 C 582.5 651.1, 576.4 663.2, 573.6 663.8 C 572.4 664.0, 569.6 659.3, 562.6 645.2 C 553.1 626.3, 549.2 621, 545.0 621 C 542.8 621, 527.4 628.4, 526.5 629.9 C 526.1 630.5, 522.8 632.6, 519.1 634.5 C 509.2 639.7, 506.3 641.8, 498.5 649.1 C 494.6 652.7, 490.0 656.4, 488.3 657.3 C 484.1 659.4, 480 664.5, 480 667.6 C 480 669.2, 482.0 672.2, 486 676.5 C 489.3 680.0, 492 683.4, 492 684.0 C 492 684.6, 496.0 689.3, 501 694.5 C 505.9 699.6, 510 704.2, 510 704.8 C 510 706.6, 504.8 712.0, 501.6 713.6 C 499.9 714.5, 493.2 720.3, 486.9 726.6 C 480.5 732.8, 474.7 738, 474.1 738 C 472.0 738, 463.9 746.2, 461.9 750.3 C 459.4 755.5, 459.4 756.5, 462.5 762.8 C 463.8 765.6, 465 768.8, 465 769.8 C 465 770.8, 466.3 773.4, 468 775.5 C 469.6 777.5, 471.0 780.2, 471.0 781.3 C 471.0 782.5, 471.7 784.6, 472.5 786 C 473.2 787.3, 473.9 789.9, 473.9 791.7 C 474.0 796.1, 483.2 814.4, 488.1 819.7 C 492.0 824.0, 493.6 831.8, 491 833.5 C 488.4 835.0, 491.6 844.4, 496.1 848.6 C 498.2 850.5, 508.4 855.7, 516.2 858.8 C 517.7 859.4, 519 860.5, 519 861.2 C 519 863.4, 528.1 871.5, 533 873.7 C 538.0 875.9, 543.0 877.7, 547.5 879 C 557.3 881.6, 566.8 886.1, 569.9 889.4 C 572.5 892.2, 581.1 897, 583.5 897 C 585.4 897, 592.1 900.6, 593.0 902.1 C 593.4 902.7, 593.2 904.7, 592.5 906.4 C 589.9 912.5, 588.7 916.5, 588.0 921 C 587.6 923.4, 586.7 926.7, 585.9 928.2 C 584.8 930.5, 584.8 931.7, 585.8 934.5 C 586.7 936.9, 586.8 938.4, 586.0 939.9 C 585.4 940.9, 584.9 944.7, 584.9 948.1 C 584.9 951.7, 584.3 955.5, 583.5 957 C 582.7 958.3, 582.0 961.1, 582.0 963.1 C 582.0 965.5, 581.0 967.9, 579 970.5 C 576.5 973.5, 575.9 975.2, 575.9 979.3 C 575.9 982.1, 575.2 985.6, 574.5 987 C 573.7 988.3, 573.0 991.6, 573.0 994.2 C 573.0 997.5, 572.0 1000.9, 570 1005 C 567.9 1009.0, 567 1012.4, 567 1015.5 C 567 1018.0, 566.2 1021.4, 565.4 1023.1 C 564.1 1025.6, 563.9 1029.8, 564.1 1049.5 C 564.4 1070.6, 564.3 1073.0, 562.8 1073.0 C 561.9 1073, 560.6 1072.2, 559.9 1071.4 C 559.2 1070.5, 557.0 1068.9, 555.0 1067.8 C 550.3 1065.2, 545.4 1061.9, 540 1057.5 C 533.4 1052.2, 529.3 1049.5, 521.8 1045.5 C 518.1 1043.6, 514.8 1041.5, 514.5 1041.0 C 514.1 1040.4, 511.0 1038.5, 507.6 1036.8 C 504.2 1035.1, 500.6 1033.0, 499.6 1032.1 C 497.9 1030.6, 495.2 1028.8, 488.0 1024.5 C 486.1 1023.4, 482.5 1020.5, 479.8 1018.2 C 477.1 1015.9, 474.4 1014, 473.9 1014 C 473.3 1014, 470.0 1011.3, 466.5 1008 C 462.9 1004.7, 459.5 1002, 459 1002 C 458.4 1002, 455.0 999.3, 451.5 996 C 447.9 992.7, 444.5 990, 443.9 990 C 443.3 990, 438.6 986.0, 433.5 981.2 C 423.5 971.8, 421.0 969.9, 410.8 964.5 C 407.1 962.6, 403.8 960.5, 403.5 960.0 C 403.1 959.4, 400.0 957.5, 396.6 955.8 C 393.2 954.1, 389.6 952.0, 388.6 951.1 C 386.9 949.6, 384.2 947.8, 377.0 943.5 C 375.1 942.4, 371.5 939.7, 369 937.5 C 366.4 935.3, 362.9 932.7, 361.3 931.7 C 359.8 930.7, 356.4 928.6, 354 927 C 351.5 925.3, 348.2 923.2, 346.6 922.2 C 345.0 921.2, 342.5 919.5, 341.1 918.3 C 339.6 917.2, 334.3 914.1, 329.3 911.6 C 324.2 909.1, 319.8 906.5, 319.4 905.9 C 319.1 905.4, 314.4 902.6, 309.1 899.9 C 297.7 893.9, 294.4 891.9, 287.8 886.2 C 285.1 883.9, 282.0 882, 280.8 882 C 279.7 882, 277.3 881.2, 275.6 880.3 C 273.9 879.4, 271.3 878.0, 269.8 877.3 C 268.3 876.6, 264.3 875.9, 260.8 875.9 C 257.2 875.9, 253.4 875.3, 252 874.5 C 250.4 873.6, 246.4 873.0, 241.5 873 C 236.5 872.9, 232.5 872.3, 231 871.5 C 229.0 870.3, 223.3 870.0, 204 870 C 184.6 869.9, 178.9 869.6, 177 868.5 C 174.9 867.3, 168.7 867.0, 145.5 867.0 L 116.5 867.0 111.9 869.7 C 109.3 871.2, 105.7 873.4, 103.9 874.5 C 102.0 875.6, 98.8 878.1, 96.7 880.1 C 93.1 883.6, 93 883.9, 93 890.9 C 93 897.8, 93.0 898.1, 97.1 902.5 C 99.4 905.0, 103.7 908.3, 106.7 909.7 C 112.0 912.3, 112.1 912.5, 111.6 915.8 C 111.2 917.9, 109.4 920.9, 106.5 924.0 C 100.9 930.0, 100.3 935.7, 104.4 943.8 C 107.3 949.5, 115.0 956.9, 118.2 957.0 C 119.4 957.0, 121.6 957.7, 123 958.5 C 124.3 959.2, 126.9 959.9, 128.6 959.9 C 131.3 959.9, 135 962.0, 135 963.5 C 135 964.9, 126.0 973.4, 122.8 975.0 C 117.3 977.8, 112.6 988.4, 116 990.5 C 116.5 990.8, 117 992.4, 117 994.0 C 117 1000.0, 130.5 1011, 138.0 1011 C 143.2 1011, 145.3 1015.0, 142.5 1020 C 139.8 1024.6, 140.5 1038.2, 143.5 1041.9 C 147.6 1046.7, 155.1 1049.9, 162.3 1050.0 C 165.7 1050.0, 169.6 1050.7, 171 1051.5 C 172.4 1052.3, 176.3 1052.9, 180 1053 C 183.6 1053.0, 187.5 1053.6, 189 1054.5 C 190.3 1055.2, 193.1 1055.9, 195.0 1055.9 C 197.0 1055.9, 199.4 1056.6, 200.5 1057.4 C 202.1 1058.6, 207.0 1058.9, 226.6 1058.9 C 241.2 1058.9, 251.1 1059.3, 251.4 1059.9 C 253.3 1062.9, 261.4 1065, 271.5 1065 C 279.2 1065, 282.8 1065.4, 285.5 1066.7 C 288.6 1068.1, 289.5 1068.2, 292.2 1067.0 C 297.4 1064.9, 302.4 1064.6, 305.8 1066.4 C 307.9 1067.5, 311.6 1068, 317.8 1068 C 326.6 1068, 335.4 1070.7, 337.5 1074.0 C 337.8 1074.6, 343.8 1077.9, 350.8 1081.5 C 368.8 1090.8, 368.2 1090.3, 391.5 1113.2 C 403.1 1124.6, 413.2 1134, 414.0 1134 C 414.7 1134, 429.6 1148.1, 447 1165.5 C 464.3 1182.8, 479.2 1197, 479.9 1197 C 480.6 1197, 487.4 1202.9, 494.8 1210.2 C 502.3 1217.5, 510.0 1224.4, 511.9 1225.5 C 520.0 1230.2, 522.3 1231.9, 528.8 1238.3 C 532.6 1241.9, 536.3 1245, 536.9 1245 C 537.6 1245, 541.6 1248.3, 546 1252.5 C 550.3 1256.6, 554.3 1260, 554.9 1260 C 555.4 1260, 558.2 1262.0, 561 1264.5 C 563.7 1266.9, 566.4 1269, 567 1269 C 567.5 1269, 570.2 1271.0, 573 1273.5 C 575.7 1275.9, 578.5 1278, 579.0 1278 C 579.6 1278, 582.8 1280.5, 586.3 1283.7 C 589.8 1286.9, 594.1 1290.4, 595.9 1291.5 C 609.4 1299.5, 609.3 1299.4, 608.5 1308.5 C 608.0 1314.4, 608.2 1316.0, 609.9 1319.2 C 611.5 1322.0, 612.0 1324.8, 612.0 1330.7 C 612.0 1335.5, 612.6 1339.4, 613.5 1341 C 614.5 1342.9, 614.9 1347.9, 615 1362 C 615.0 1376.1, 615.4 1381.0, 616.5 1383 C 617.3 1384.5, 617.9 1388.5, 618 1393.5 C 618.0 1398.4, 618.6 1402.4, 619.5 1404 C 620.3 1405.3, 620.9 1409.2, 620.9 1412.6 C 620.9 1416.9, 621.4 1419.3, 622.5 1420.4 C 624.9 1422.8, 1340.0 1422.8, 1342.4 1420.4 C 1343.8 1419.0, 1344 1387.3, 1344 1086.9 L 1344 754.9 1340.1 750.7 C 1336.0 746.3, 1332 739.1, 1332 736.5 C 1332 735.6, 1329.3 729.5, 1326 723 C 1320.6 712.2, 1319.9 710.3, 1319.9 704.7 C 1319.9 701.2, 1319.3 697.4, 1318.5 696 C 1317.7 694.6, 1317.0 692.5, 1317.0 691.4 C 1317.0 690.3, 1315.8 687.8, 1314.5 686.0 C 1312.7 683.6, 1312.2 681.9, 1312.6 679.8 C 1313.3 676.4, 1311.9 674.4, 1308.2 673.6 C 1304.8 672.9, 1302.0 668.2, 1301.9 663.1 C 1301.9 661.1, 1301.2 658.3, 1300.5 657 C 1299.7 655.6, 1299.0 652.9, 1299 651 C 1298.9 649.0, 1298.2 646.3, 1297.5 645 C 1296.7 643.6, 1296.0 641.0, 1296.0 639.2 C 1295.9 634.9, 1292.0 627.3, 1287.9 623.5 C 1284.1 619.9, 1282.9 617.2, 1281.9 610.1 C 1281.2 605.7, 1280.3 603.9, 1277.1 600.6 C 1272.9 596.3, 1257 565.7, 1257 562.0 C 1257 561.0, 1255.9 558.8, 1254.6 557.3 C 1253.3 555.7, 1250.1 550.3, 1247.6 545.3 C 1245.1 540.2, 1242.5 535.8, 1241.9 535.4 C 1241.4 535.1, 1238.1 529.3, 1234.8 522.6 C 1231.4 515.9, 1227.0 508.5, 1224.8 506.2 C 1222.7 503.9, 1221 501.5, 1221 500.8 C 1221 500.2, 1214.8 493.5, 1207.4 485.9 C 1194.2 472.5, 1193.9 472.0, 1194.5 468.7 C 1195.4 463.7, 1193.2 462, 1186.3 462 C 1181.3 462, 1180.5 461.6, 1176.2 457.6 C 1173.6 455.2, 1170.7 453.0, 1169.7 452.6 C 1168.7 452.3, 1167.6 451.2, 1167.3 450.2 C 1166.9 449.2, 1163.3 445.0, 1159.3 440.8 C 1154.1 435.4, 1152 432.4, 1152 430.6 C 1152 427.4, 1149.5 425, 1146.3 425 C 1143.5 425, 1138.5 420.3, 1135.7 415.2 C 1134.8 413.4, 1133.0 411.5, 1131.6 411.0 C 1129.3 410.1, 1127.2 405.8, 1125.1 397.4 C 1124.6 395.8, 1123.7 393.4, 1123.1 392.2 C 1122.5 391.1, 1122 389.2, 1122 388.2 C 1122 387.1, 1120.6 384.5, 1119 382.5 C 1116.8 379.7, 1116 377.6, 1116 374.8 C 1116 371.8, 1115.2 370.1, 1112.3 366.9 C 1109.4 363.7, 1108.4 361.6, 1107.5 356.2 C 1105.1 343.7, 1102.4 337.8, 1098.4 336.6 C 1092.1 334.7, 1091.0 333.9, 1089.0 330.0 C 1087.7 327.5, 1085.5 325.3, 1083.2 324.0 C 1076.4 320.5, 1068 309.6, 1068 304.2 C 1068 301.7, 1065.2 298.0, 1062.5 297.0 C 1060.1 296.1, 1057.5 290.0, 1055.9 282 C 1054.1 272.2, 1053.1 268.5, 1052.3 268.2 C 1048.8 267.0, 1044.9 263.6, 1044.4 261.2 C 1044.1 259.7, 1042.5 255.5, 1041 252 C 1039.4 248.4, 1037.8 244.3, 1037.5 242.9 C 1036.8 239.3, 1021.9 225.0, 1018.8 224.9 C 1017.5 224.9, 1015.3 224.2, 1014 223.5 C 1012.3 222.5, 1008.3 222.0, 1002.2 222.0 C 996.8 222.0, 991.7 221.4, 989.7 220.6 C 985.6 218.8, 980.3 217.0, 976.5 216 C 972.6 214.9, 967.3 213.1, 963.2 211.3 C 961.2 210.5, 956.2 210, 950.5 210 C 942.2 210, 940.8 209.7, 938.3 207.6 C 932.3 202.7, 927.3 201, 919.5 201 C 911.6 201, 906.6 199.2, 900.6 194.3 C 899.1 193.0, 896.7 192, 895.3 192 C 892.3 192, 888 187.8, 888 185.0 C 888 183.8, 886.6 180.2, 885 177 C 883.3 173.7, 882 170.2, 882 169.1 C 882 168.1, 880.7 165.6, 879.2 163.6 C 874.4 157.3, 871 151.3, 871 149.1 C 871 148.0, 869.7 145.5, 868.1 143.7 C 866.5 141.9, 864.5 139.0, 863.6 137.2 C 862.4 134.9, 860.0 133.0, 855.0 130.5 C 847.0 126.4, 846 125.0, 846 117.9 C 846 113.1, 845.7 112.5, 840.2 106.8 C 834.8 101.2, 829.0 97.6, 821.5 95.3 C 819.6 94.7, 817.7 92.9, 816 90 C 814.2 87.0, 812.3 85.2, 810.4 84.6 C 804.3 82.8, 798.3 79.5, 794.2 75.8 C 790.9 72.8, 789.2 71.9, 786.2 71.9 C 784.1 71.9, 781.3 71.2, 780 70.5 C 778.6 69.7, 775.2 69.0, 772.5 69 C 769.7 68.9, 766.3 68.2, 765 67.5 C 763.6 66.7, 761.5 66.0, 760.3 66.0 C 759.2 66.0, 756.6 64.7, 754.7 63.2 C 752.7 61.7, 749.9 59.7, 748.3 58.7 C 746.7 57.7, 743.4 55.6, 741 54 C 738.5 52.3, 735.2 50.2, 733.6 49.2 C 732.0 48.2, 729.5 46.5, 728.1 45.4 C 724.2 42.3, 714.2 38, 706.4 36.0 C 704.8 35.6, 702.4 34.7, 701.2 34.1 C 700.0 33.4, 694.6 33, 688.5 33 C 677.2 33, 674.9 31.9, 678.2 28.2 C 680.5 25.7, 686 13.9, 686 11.7 C 686 8.8, 679.6 3, 676.6 3 C 675.0 3, 672.2 4.6, 669 7.5 M 649.9 542.5 C 649.2 543.4, 647.0 544.9, 645.0 545.9 C 639.4 548.9, 631.5 557.8, 627.5 565.7 L 624 572.9 623.9 597.2 C 623.9 616.3, 623.6 622.0, 622.5 624 C 621.6 625.4, 621.0 629.3, 621 633 C 620.9 636.6, 620.3 640.5, 619.5 642 C 618.7 643.3, 618.0 646.7, 618 649.5 C 617.9 652.2, 617.2 655.6, 616.5 657 C 615.6 658.4, 615.0 662.3, 615 666 C 614.9 669.6, 614.3 673.5, 613.5 675 C 612.4 676.8, 612.0 681.2, 612.0 691.1 C 611.9 707.1, 612.3 708, 619.9 708 C 625.6 708, 629.8 710.9, 632.9 716.8 C 633.9 718.8, 636.0 721.6, 637.5 723 C 640.4 725.6, 645 733.9, 645 736.4 C 645 737.3, 643.6 740.7, 642 744 C 640.3 747.2, 639 750.7, 639 751.8 C 639 752.8, 637.6 755.4, 636 757.5 C 632.1 762.2, 632.2 763.6, 636.5 771.8 C 638.4 775.5, 640 780.1, 640 781.9 C 640 783.7, 641.0 787.3, 642.3 789.8 C 644.0 793.3, 644.8 796.9, 645.3 804.4 C 645.8 812.4, 646.4 815.0, 648.3 817.9 C 649.6 819.8, 651.4 822.7, 652.3 824.2 C 655.4 829.3, 658.5 828.1, 668.5 817.7 C 673.4 812.6, 678.4 806.9, 679.5 805.0 C 683.6 798.0, 685.6 794.9, 687.8 792.6 C 689.0 791.4, 690 789.8, 690 789.2 C 690 788.6, 691.3 787.1, 693 786 C 694.6 784.8, 696 783.2, 696 782.5 C 696 781.8, 696.9 780.4, 698.1 779.4 C 703.0 774.9, 705 768.7, 705 757.5 C 705 750.9, 705.5 745.8, 706.3 743.7 C 709.0 737.3, 710.2 733.4, 710.9 728.8 C 711.3 726.0, 712.6 722.9, 714.3 721.0 C 715.7 719.2, 717.0 716.8, 717.0 715.6 C 717.0 714.4, 717.7 712.3, 718.5 711 C 719.2 709.6, 719.9 706.3, 719.9 703.7 C 719.9 700.2, 721.1 696.5, 724.3 689.7 C 730.4 676.8, 730.9 674.9, 731.6 662 C 732.0 655.5, 732.8 649.3, 733.6 647.8 C 734.3 646.3, 735 643.0, 735 640.5 C 735 635.6, 745.6 612.6, 750.6 606.6 C 753.0 603.8, 754 594.7, 752.3 590.5 C 751.6 588.5, 747.6 588.5, 745.9 590.5 C 740.2 597.3, 716.6 599.7, 706.1 594.4 C 701.2 592.0, 699.5 590.3, 694.4 583 C 691.7 579.0, 690.6 576.8, 689.3 572.5 C 688.1 568.4, 680.2 564.1, 673.7 564.0 C 669.2 564.0, 661.4 560.9, 659.7 558.5 C 659.3 557.9, 659.0 555.1, 659.0 552.2 C 658.9 543.0, 653.9 537.7, 649.9 542.5"
